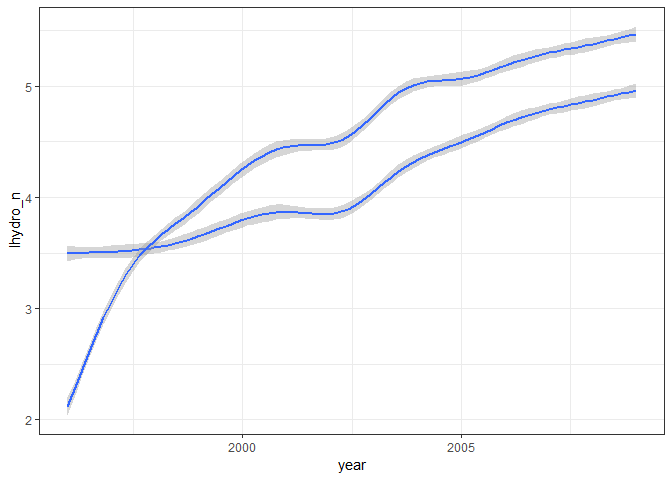
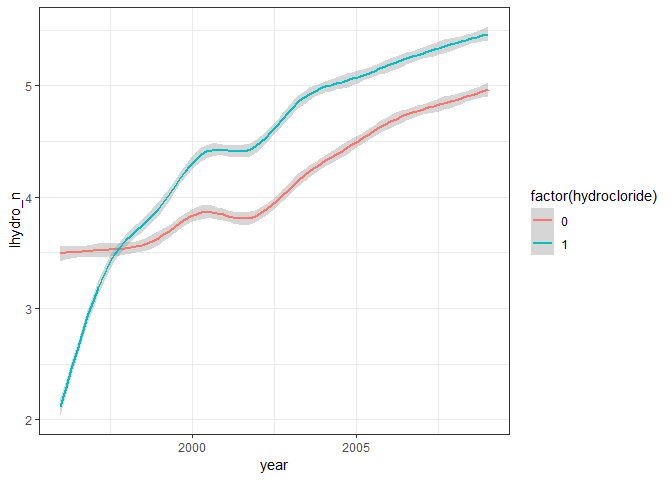
Update with map.

diff --git a/main.md b/main.md
@@ -4,51 +4,29 @@ Federico Andreis
 18 September 2018
 
 Data in
-=======
+-------
 
 Load the data and create a reduced version of the dataset with outcome grouped by *hydrocloride*
 
 ``` r
-df <- read_csv('Data/df.csv')
-```
+df <- read.csv('Data/df.csv')
 
-    ## Parsed with column specification:
-    ## cols(
-    ##   .default = col_integer(),
-    ##   health_board = col_character(),
-    ##   drug = col_character(),
-    ##   POSTCODE = col_character(),
-    ##   Latitude = col_double(),
-    ##   Longitude = col_double(),
-    ##   DZ = col_character(),
-    ##   SIMD16_Rank = col_double()
-    ## )
-
-    ## See spec(...) for full column specifications.
-
-    ## Warning in rbind(names(probs), probs_f): number of columns of result is not
-    ## a multiple of vector length (arg 1)
-
-    ## Warning: 2798 parsing failures.
-    ## row # A tibble: 5 x 5 col     row col     expected               actual file          expected   <int> <chr>   <chr>                  <chr>  <chr>         actual 1  1305 Easting no trailing characters e3     'Data/df.csv' file 2  1306 Easting no trailing characters e3     'Data/df.csv' row 3  3550 Easting no trailing characters e3     'Data/df.csv' col 4  3551 Easting no trailing characters e3     'Data/df.csv' expected 5  6036 Easting no trailing characters e3     'Data/df.csv'
-    ## ... ................. ... ........................................................... ........ ........................................................... ...... ........................................................... .... ........................................................... ... ........................................................... ... ........................................................... ........ ...........................................................
-    ## See problems(...) for more details.
-
-``` r
 dr <- df %>% group_by(gp_code,year,hydrocloride) %>% slice(1) %>% 
   ungroup %>% dplyr::select(-one_of('drug')) %>% mutate(lhydro_n=log(hydro_n))
 ```
 
-A few plots: show temporal trends in prescription by hydrocloride.
+Let's take an overall look at the data
+--------------------------------------
+
+Show temporal trends in prescription by hydrocloride.
 
 ``` r
-dr %>% ggplot(aes(x=year,y=lhydro_n,group=hydrocloride))+
+dr %>% ggplot(aes(x=year,y=lhydro_n,group=hydrocloride,
+                  col=factor(hydrocloride)))+
   geom_smooth()+theme_bw()
 ```
 
     ## `geom_smooth()` using method = 'gam' and formula 'y ~ s(x, bs = "cs")'
-
-    ## Warning: Removed 1969 rows containing non-finite values (stat_smooth).
 
 ![](main_files/figure-markdown_github/unnamed-chunk-2-1.png) Show spatial trends faceted by year.
 
@@ -58,6 +36,27 @@ dr %>% ggplot(aes(Longitude, Latitude, size = hydro_n, colour = hydrocloride)) +
   facet_wrap(~year)
 ```
 
-    ## Warning: Removed 1 rows containing missing values (geom_point).
+![](main_files/figure-markdown_github/unnamed-chunk-3-1.png)
 
-![](main_files/figure-markdown_github/unnamed-chunk-3-1.png) \#
+Show the GP positions.
+
+``` r
+map_scotland <- readOGR('Data/Scotland boundary.shp')
+```
+
+    ## OGR data source with driver: ESRI Shapefile 
+    ## Source: "C:\Users\fa15\Dropbox\Stirling\Research\Ashleigh Ward\BPH\bph\Data\Scotland boundary.shp", layer: "Scotland boundary"
+    ## with 1 features
+    ## It has 1 fields
+
+``` r
+plot(map_scotland)
+dr_map <- dr
+coordinates(dr_map) <- ~Easting+Northing
+plot(dr_map,add=TRUE,col='red')
+```
+
+![](main_files/figure-markdown_github/unnamed-chunk-4-1.png)
+
+Models
+------
